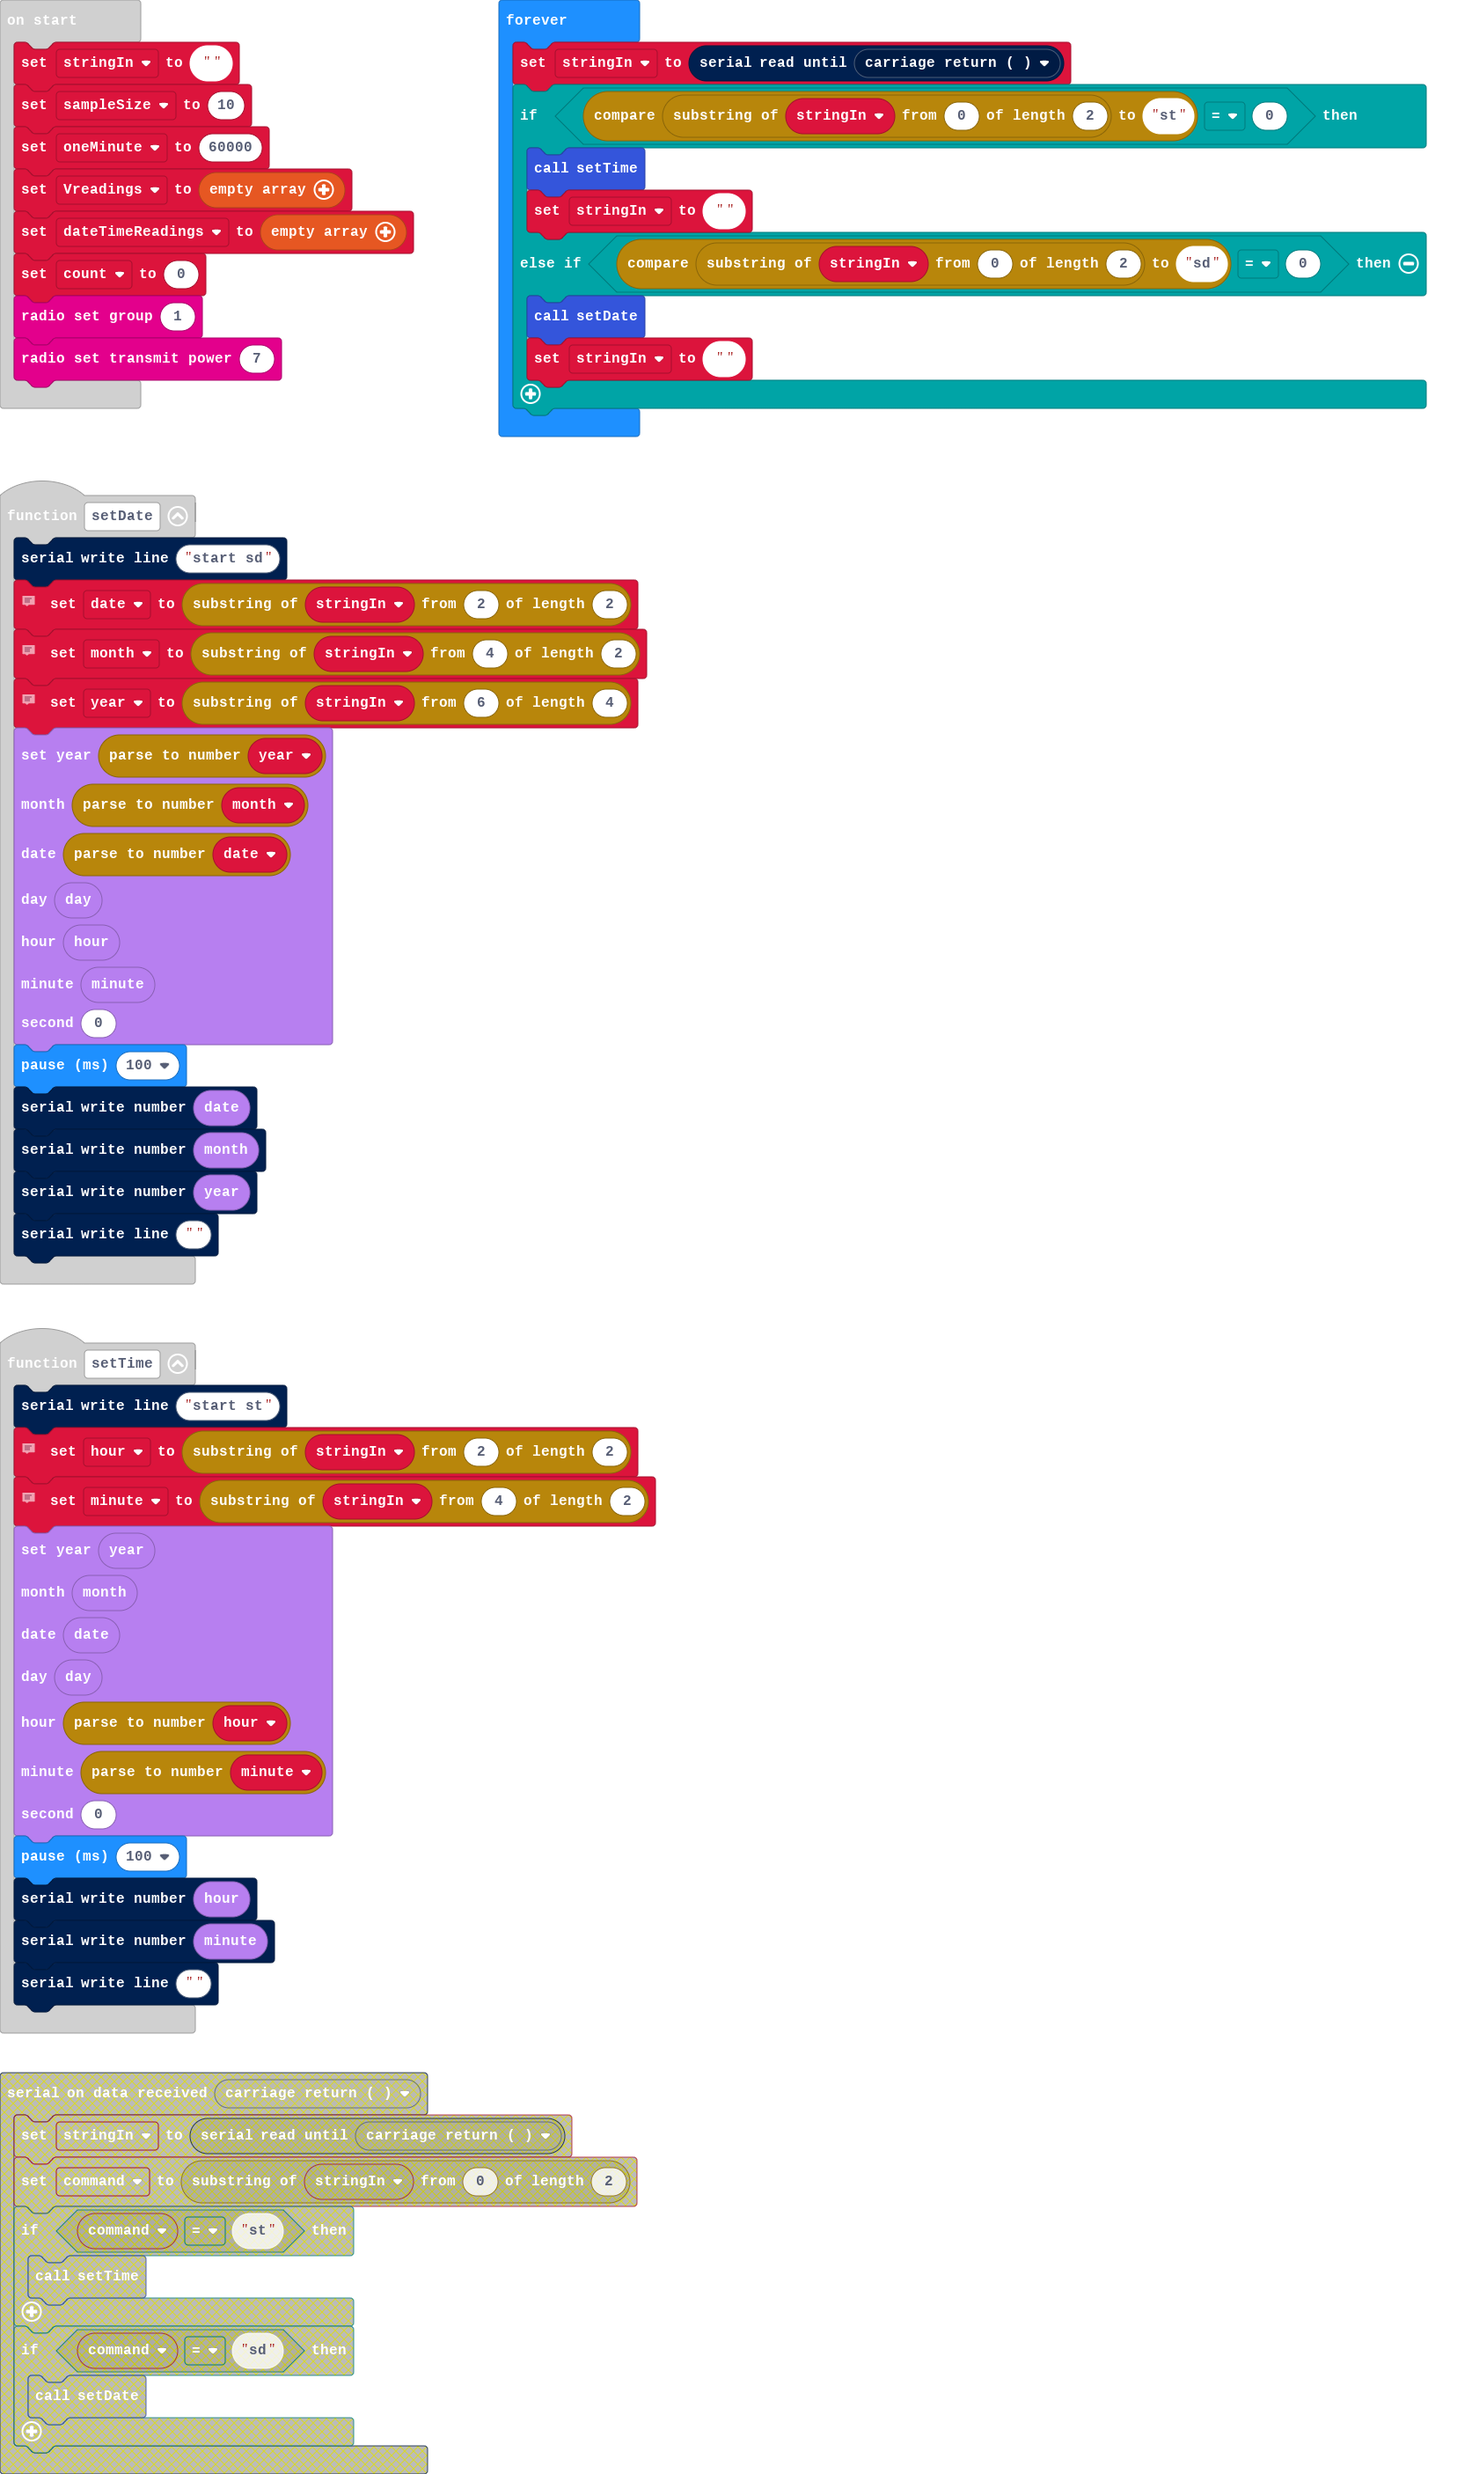
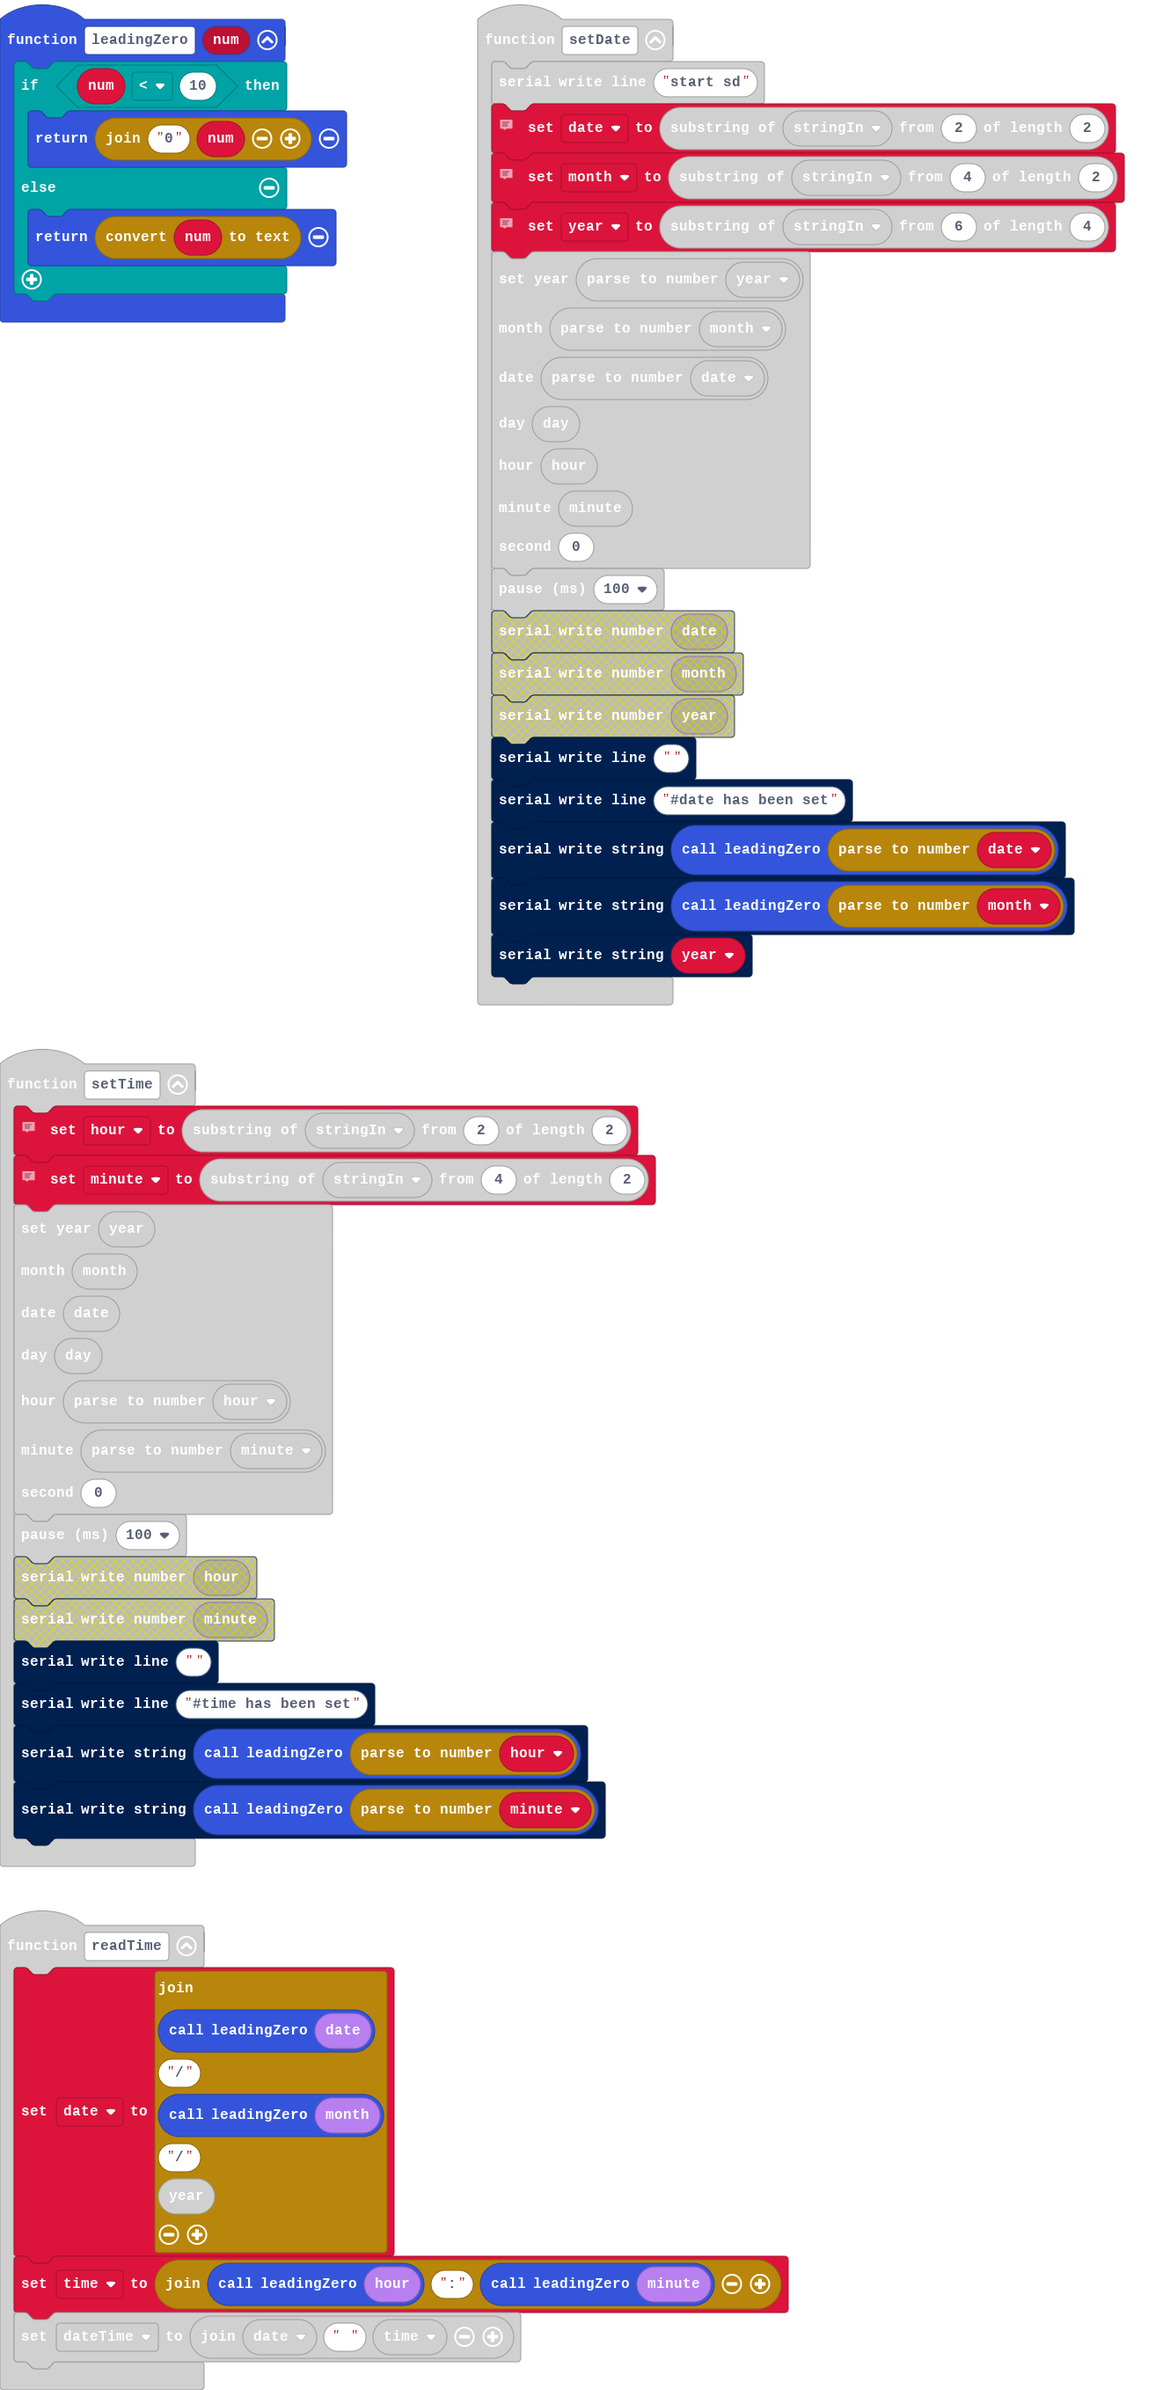
added leading zero

diff --git a/main.ts b/main.ts
@@ -1,6 +1,6 @@
 function readTime () {
-    date = "" + DS3231.date() + "/" + DS3231.month() + "/" + DS3231.year()
-    time = "" + DS3231.hour() + ":" + DS3231.minute()
+    date = "" + leadingZero(DS3231.date()) + "/" + leadingZero(DS3231.month()) + "/" + DS3231.year()
+    time = "" + leadingZero(DS3231.hour()) + ":" + leadingZero(DS3231.minute())
     dateTime = "" + date + " " + time
 }
 function makeReading () {
@@ -34,6 +34,13 @@ function makeReading () {
         }
     }
 }
+function leadingZero (num: number) {
+    if (num < 10) {
+        return "0" + num
+    } else {
+        return convertToText(num)
+    }
+}
 // Show date and time
 input.onButtonPressed(Button.A, function () {
     readTime()
@@ -57,9 +64,10 @@ function setDate () {
     0
     )
     basic.pause(100)
-    serial.writeNumber(DS3231.date())
-    serial.writeNumber(DS3231.month())
-    serial.writeNumber(DS3231.year())
+    serial.writeLine("#date has been set")
+    serial.writeString("" + (leadingZero(parseFloat(date))))
+    serial.writeString("" + (leadingZero(parseFloat(month))))
+    serial.writeString(year)
     serial.writeLine("")
 }
 // Reset readings
@@ -69,7 +77,6 @@ input.onButtonPressed(Button.AB, function () {
     count = 0
 })
 function setTime () {
-    serial.writeLine("start st")
     // the first 2 characters after command
     hour = stringIn.substr(2, 2)
     // the next 2 characters command
@@ -84,8 +91,9 @@ function setTime () {
     0
     )
     basic.pause(100)
-    serial.writeNumber(DS3231.hour())
-    serial.writeNumber(DS3231.minute())
+    serial.writeLine("#time has been set")
+    serial.writeString("" + (leadingZero(parseFloat(hour))))
+    serial.writeString("" + (leadingZero(parseFloat(minute))))
     serial.writeLine("")
 }
 radio.onReceivedString(function (receivedString) {
